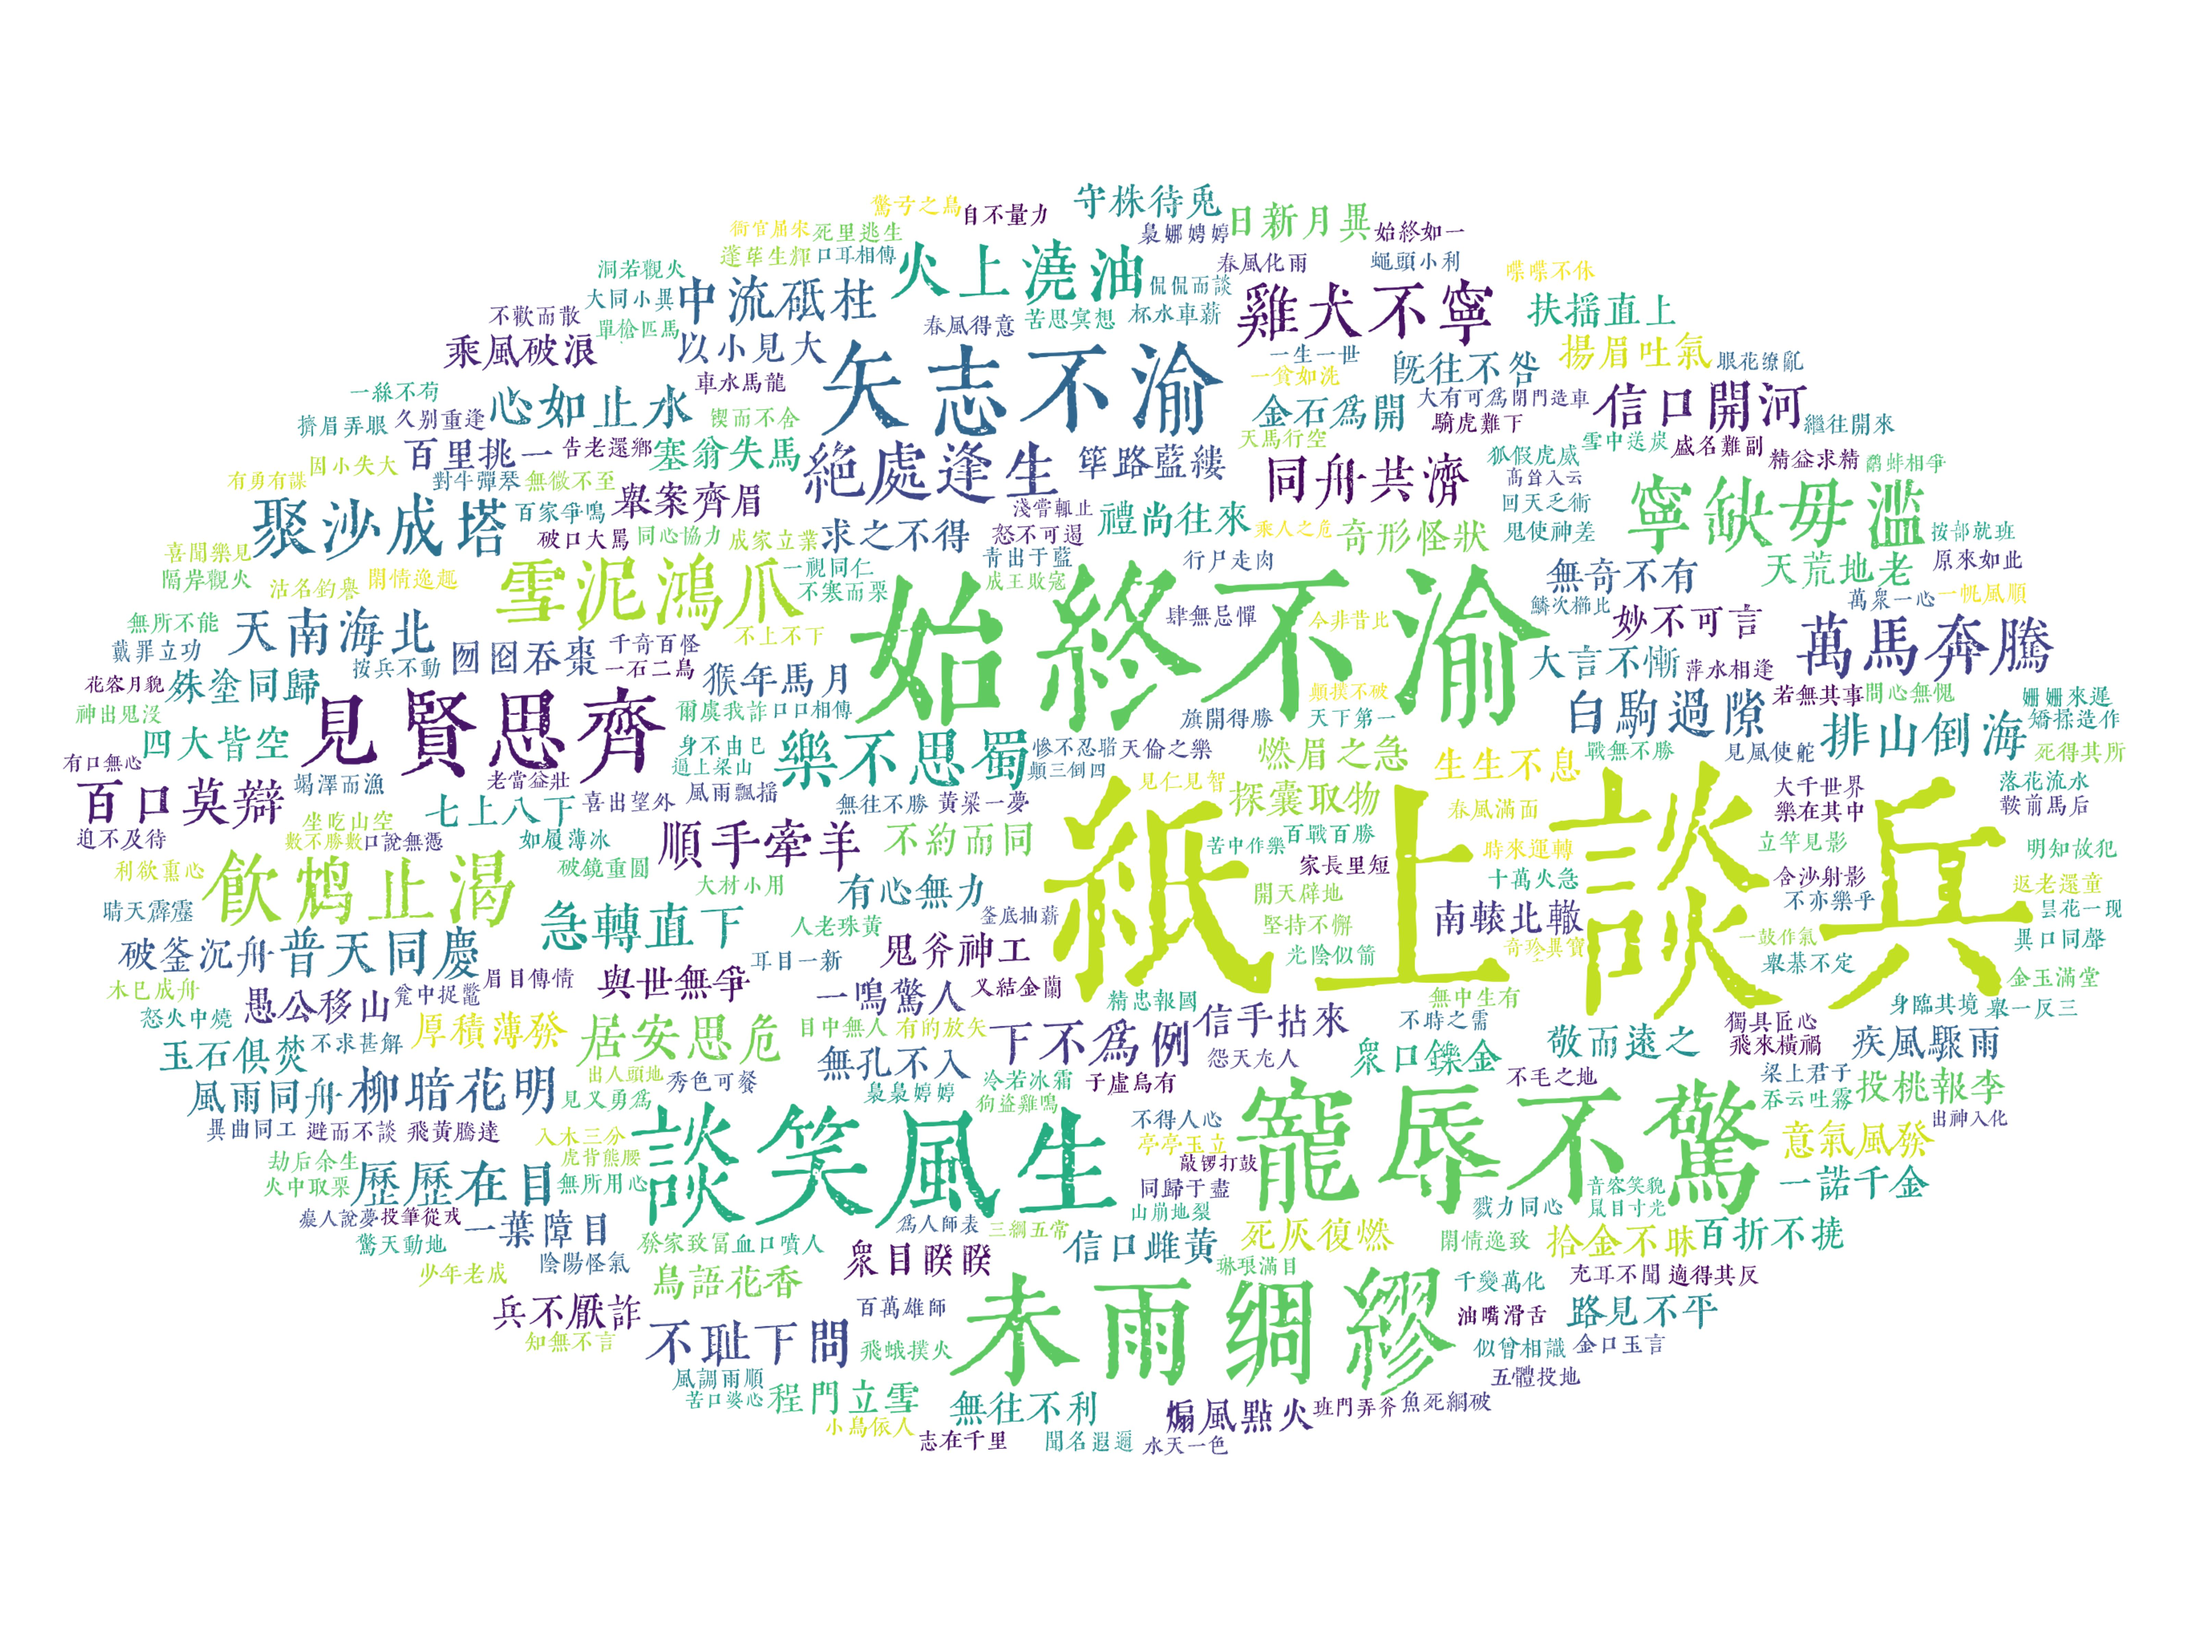
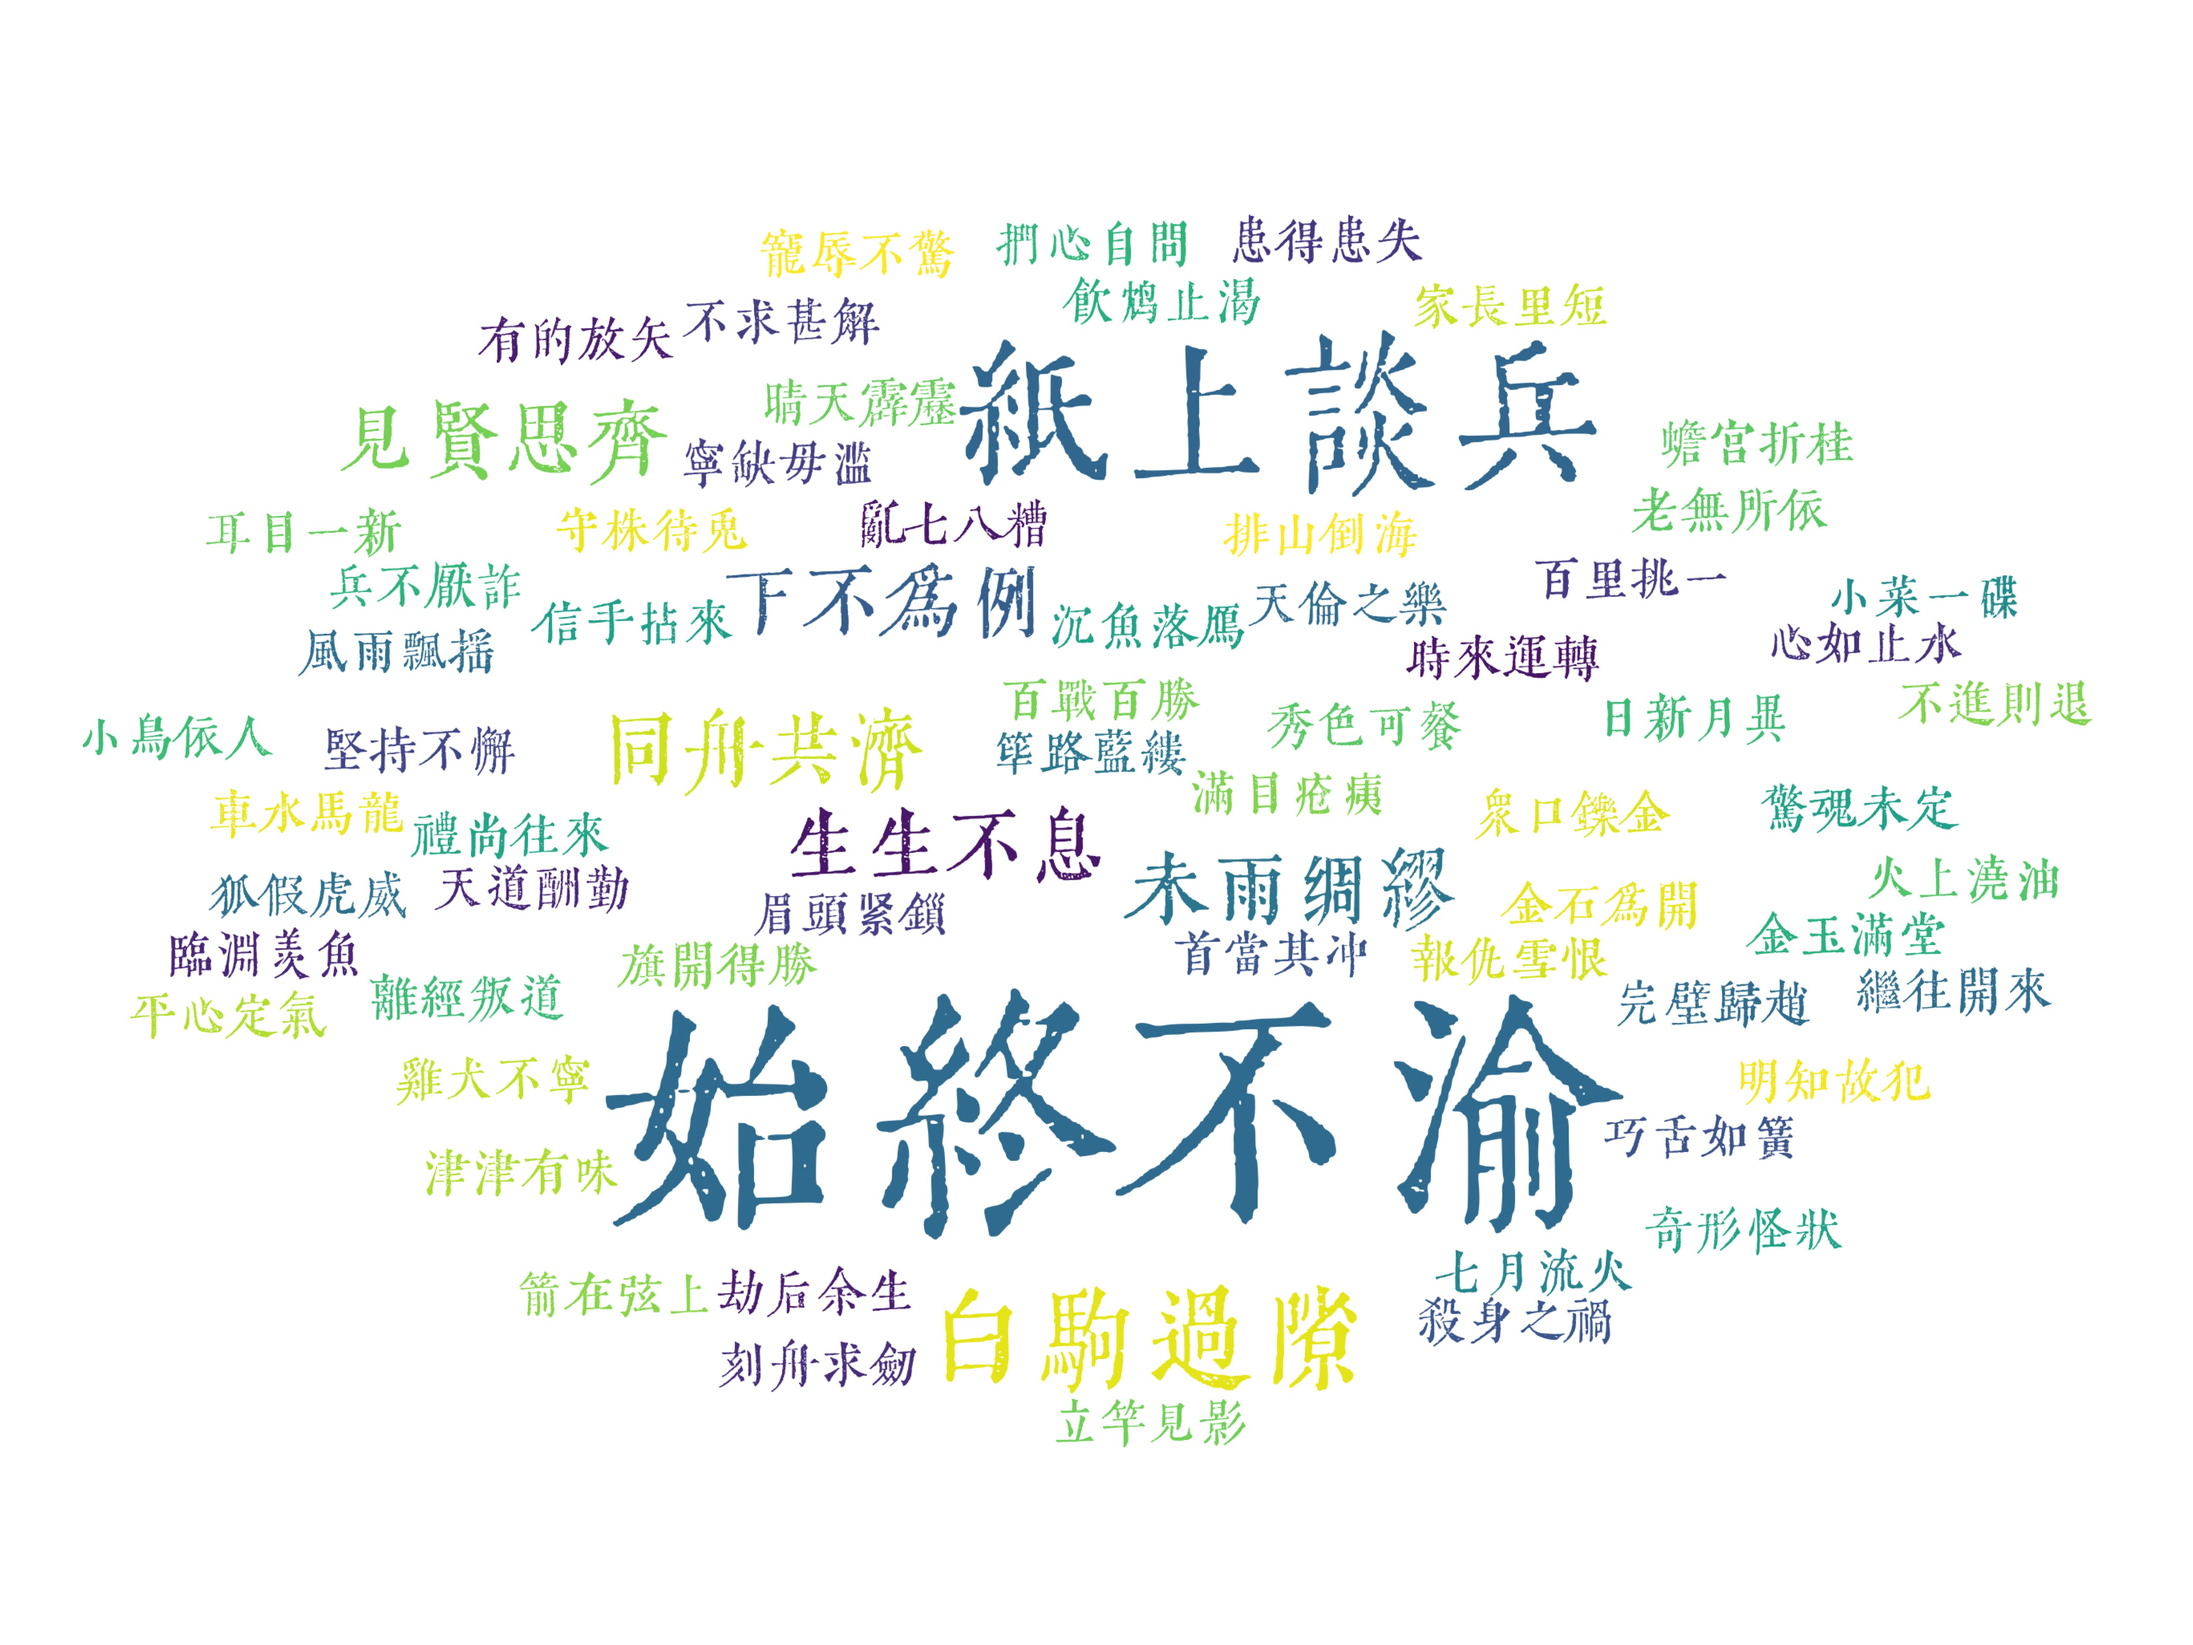
更新开局词（opening idioms）统计

Changed region(s): [[0.0312, 0.0938, 0.9688, 0.9062]]

diff --git a/summary.py b/summary.py
@@ -95,6 +95,7 @@ def save_dict_to_json(a_dict: dict, file_name: str) -> None:
 def main():
     """main"""
     phrases_list = []
+    opening_phrases_list = []
     initials_list = []
     finals_list = []
     tones_list = []
@@ -109,6 +110,7 @@ def main():
         for every_day in all_days:
             # update phrase, some phrase isn't idiom
             phrases_list.append(every_day['idiom'])
+            opening_phrases_list.append(every_day['idiom'][0])
             # update number of tries, time of tries
             num_of_tries_list.append(len(every_day['idiom']))
             splited_time = list(map(int, every_day['time'].split(":")))
@@ -131,6 +133,10 @@ def main():
     ]
     idioms_list = list(itertools.compress(phrases_list, idioms_filter))
 
+    # remove false idiom in opening phrases
+    opening_idioms_list = list(
+        itertools.compress(opening_phrases_list, idioms_filter))
+
     # update initial, final, and tone of idiom
     for idiom in idioms_list:
         initials, finals, tones = get_pinyin(idiom)
@@ -140,6 +146,7 @@ def main():
 
     # convert list to dict, all infos are true idiom
     idioms_dict = list_to_sorted_dict(idioms_list)
+    opening_idioms_dict = list_to_sorted_dict(opening_idioms_list)
     initials_dict = list_to_sorted_dict(initials_list)
     finals_dict = list_to_sorted_dict(finals_list)
     tones_dict = list_to_sorted_dict(tones_list)
@@ -148,6 +155,7 @@ def main():
 
     # save data
     save_dict_to_json(idioms_dict, "./output/idioms.json")
+    save_dict_to_json(opening_idioms_dict, "./output/opening_idioms.json")
     save_dict_to_json(initials_dict, "./output/initials.json")
     save_dict_to_json(finals_dict, "./output/finals.json")
     save_dict_to_json(tones_dict, "./output/tones.json")

diff --git a/plot_wordcloud.py b/plot_wordcloud.py
@@ -19,7 +19,8 @@ def read_data(file_path: str) -> dict:
         return json.load(json_file)
 
 
-idioms = read_data("./output/idioms.json")
+idioms = read_data("./output/opening_idioms.json")
+# idioms = read_data("./output/idioms.json")
 
 # generate word cloud
 wc_fig = plt.figure()
